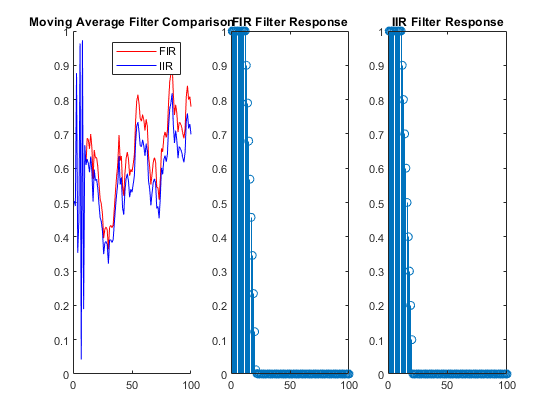
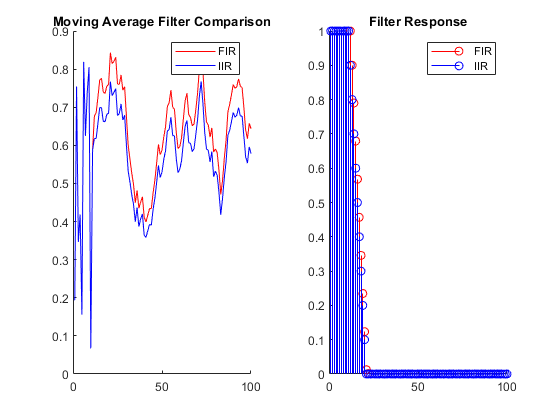
🍱 Improve MA Filter figure clarity

diff --git a/DSP/Moving Average Filter/MovingAverageFilter.m b/DSP/Moving Average Filter/MovingAverageFilter.m
@@ -10,7 +10,7 @@ y1 = FIRMovingAverage(y1, var, buf);
 
 y2 = IIRMovingAverage(y2, var, buf);
 
-tiledlayout(1,3);
+tiledlayout(1,2);
 nexttile
 hold on
 plot(y1, "r-")
@@ -20,8 +20,9 @@ legend("FIR", "IIR")
 hold off
 
 nexttile
-stem(FIRMovingAverage(y1,impulse,buf))
-title("FIR Filter Response")
-nexttile
-stem(IIRMovingAverage(y2,impulse,buf))
-title("IIR Filter Response")
+hold on
+stem(FIRMovingAverage(y1,impulse,buf),"r-")
+stem(IIRMovingAverage(y2,impulse,buf),"b-")
+title("Filter Response")
+legend("FIR","IIR")
+hold off
